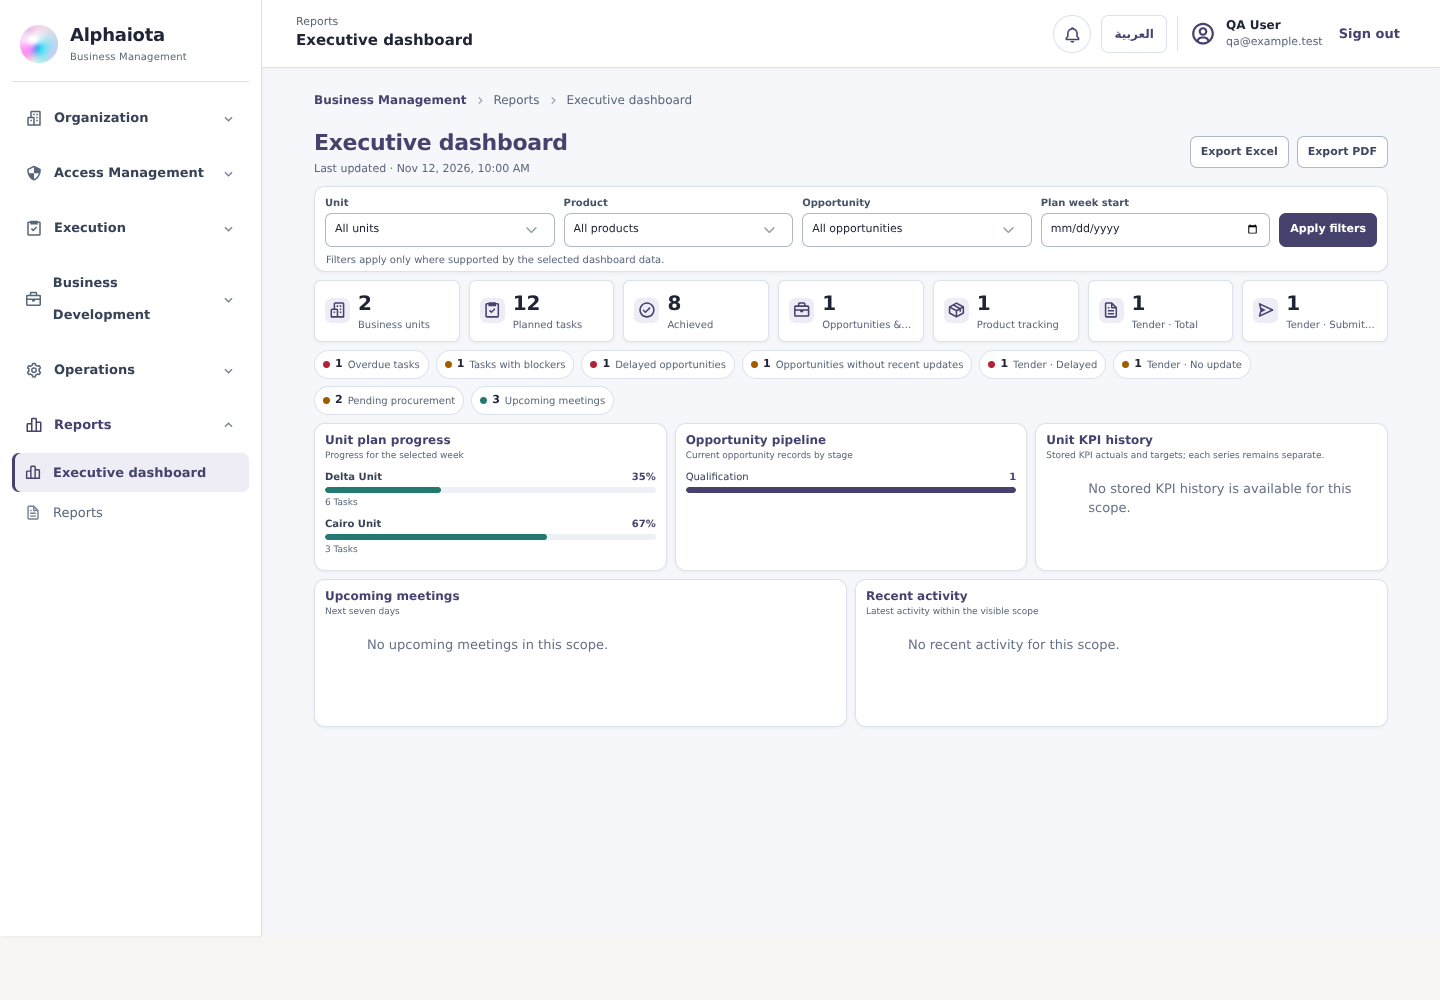
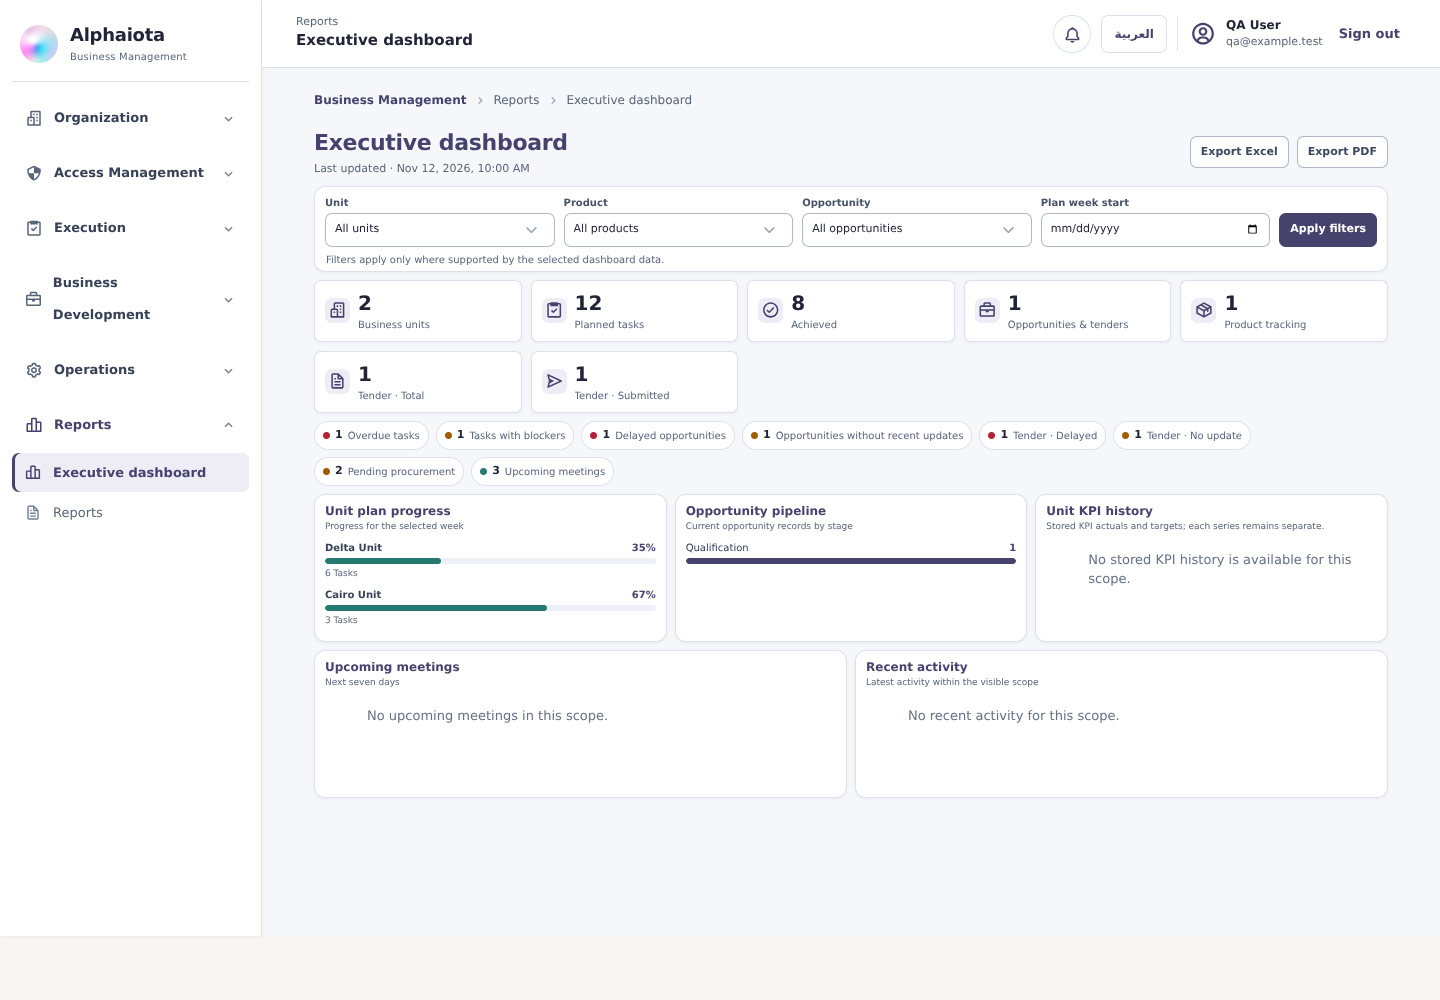
Improve dashboard breakpoint clarity and activity fixtures

diff --git a/frontend/src/app/components/bms/dashboard/executive-dashboard.component.scss b/frontend/src/app/components/bms/dashboard/executive-dashboard.component.scss
@@ -23,7 +23,7 @@
 .filter-actions { display: flex; align-items: center; gap: 6px; }
 .filter-actions .btn-brand, .filter-actions .btn-soft { min-height: 34px; padding: 5px 10px; font-size: 11px; }
 .filter-scope { margin: 6px 1px 0; color: var(--bms-muted); font-size: 10px; line-height: 1.3; }
-.summary-grid { display: grid; grid-template-columns: repeat(auto-fit, minmax(112px, 1fr)); gap: 9px; }
+.summary-grid { display: grid; grid-template-columns: repeat(auto-fit, minmax(min(100%, 190px), 1fr)); gap: 9px; }
 .summary-card {
   min-width: 0;
   min-height: 67px;
@@ -94,6 +94,12 @@
   .dashboard-panel { padding: 9px 10px; min-height: 148px; }
   .dashboard-filter-card { padding: 8px 10px 5px; }
   .summary-card { min-height: 62px; }
+}
+@media (min-width: 801px) and (max-width: 980px) {
+  .summary-grid { grid-template-columns: repeat(4, minmax(0, 1fr)); }
+}
+@media (min-width: 601px) and (max-width: 800px) {
+  .summary-grid { grid-template-columns: repeat(3, minmax(0, 1fr)); }
 }
 @media (max-width: 980px) {
   .dashboard-panels { grid-template-columns: repeat(auto-fit, minmax(min(100%, 270px), 1fr)); }

diff --git a/backend/tests/Feature/P17EmployeeManagementTest.php b/backend/tests/Feature/P17EmployeeManagementTest.php
@@ -340,6 +340,10 @@ class P17EmployeeManagementTest extends BmsTestCase
         $plan = \App\Models\BMS\WeeklyPlan::create([
             'business_unit_id' => $unit->id, 'week_start' => '2026-11-08', 'status' => 'submitted', 'created_by' => $director->id,
         ]);
+        BmsAuditLog::create([
+            'auditable_type' => \App\Models\BMS\WeeklyPlan::class, 'auditable_id' => $plan->id,
+            'event' => 'weekly_plan.submitted', 'user_id' => $director->id,
+        ]);
         \App\Models\BMS\UnitTask::create([
             'weekly_plan_id' => $plan->id, 'business_unit_id' => $unit->id, 'owner_id' => $director->id,
             'title' => 'Late task', 'status' => 'in_progress', 'due_date' => now()->subDays(2),
@@ -350,7 +354,7 @@ class P17EmployeeManagementTest extends BmsTestCase
         $this->assertSame(1, $dashboard['summary']['upcoming_meetings']);
         $this->assertSame(1, $dashboard['summary']['overdue_tasks']);
         $this->assertSame('Weekly sync', $dashboard['meetings'][0]['title']);
-        $this->assertNotEmpty($dashboard['recent_activity']);
+        $this->assertTrue(collect($dashboard['recent_activity'])->contains(fn ($row) => $row['event'] === 'weekly_plan.submitted'));
     }
 
     public function test_P19_manager_assignment_blocks_cycles_cross_company_and_out_of_scope_managers(): void
@@ -431,19 +435,26 @@ class P17EmployeeManagementTest extends BmsTestCase
         $otherDirector = $this->makeUser();
         $otherDirector->businessUnits()->attach($theirs->id);
 
-        \App\Models\BMS\ProcurementRequest::create([
+        $visibleRequest = ProcurementRequest::create([
             'business_unit_id' => $mine->id, 'reference' => 'P19-ACTIVITY-MINE', 'item' => 'Visible item', 'quantity' => 1,
             'purpose' => 'Mine', 'status' => 'submitted', 'requested_by' => $director->id,
         ]);
-        \App\Models\BMS\ProcurementRequest::create([
+        $secretRequest = ProcurementRequest::create([
             'business_unit_id' => $theirs->id, 'reference' => 'P19-ACTIVITY-SECRET', 'item' => 'Secret item', 'quantity' => 1,
             'purpose' => 'Theirs', 'status' => 'submitted', 'requested_by' => $otherDirector->id,
         ]);
+        foreach ([[$visibleRequest, $director, 'visible.procurement'], [$secretRequest, $otherDirector, 'secret.procurement']] as [$request, $actor, $event]) {
+            BmsAuditLog::create([
+                'auditable_type' => ProcurementRequest::class, 'auditable_id' => $request->id,
+                'event' => $event, 'user_id' => $actor->id,
+            ]);
+        }
 
         $data = $this->getBms('executive-dashboard', $director)->assertOk()->json('data');
         $this->assertSame(1, $data['summary']['pending_procurement']);
         $events = collect($data['recent_activity']);
-        $this->assertTrue($events->isNotEmpty());
+        $this->assertTrue($events->contains(fn ($row) => $row['event'] === 'visible.procurement'));
+        $this->assertFalse($events->contains(fn ($row) => $row['event'] === 'secret.procurement'), 'Other-unit procurement activity must not leak.');
         $this->assertTrue($events->every(fn ($row) => $row['type'] !== 'User'));
     }
 
